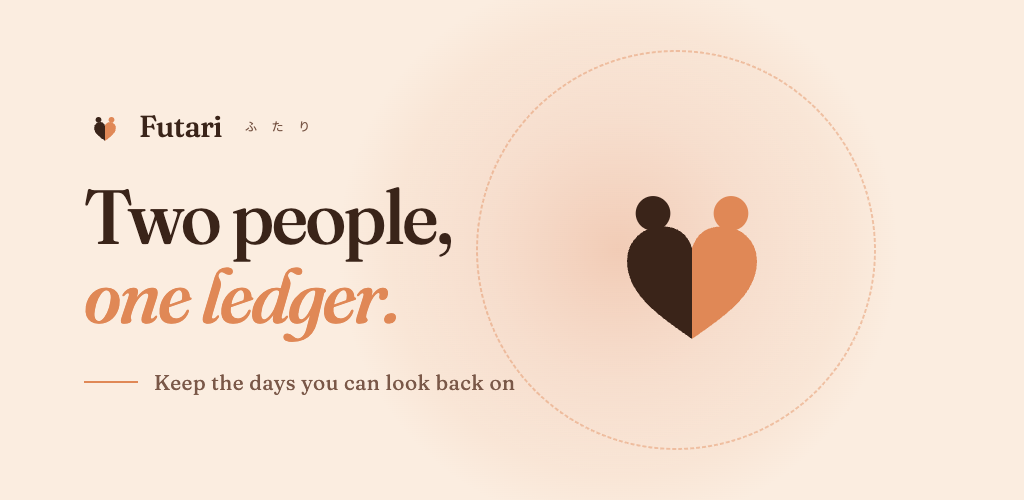
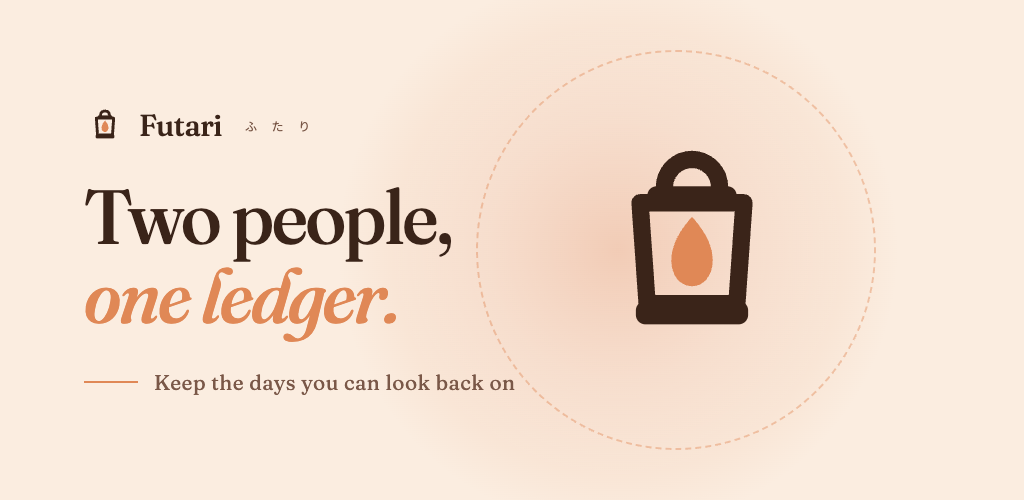
feat(brand): 全站標誌統一成提燈，五份重複的 path 收成一個來源
## 為什麼

盤過所有圖像資產後，發現三種意象並存：

- **提燈** — 7 個 app / store 資產（AppIcon、play-icon、Android launcher、
  PWA icon ×4、splash、splash_icon），自 2026-06-08 `b9b3da0` 起
- **檯燈** — `illustration-hero.png` 一張
- **完全沒有燈的扁平雙色心** — 手寫 path 重複 5 份 ＋ 生成圖 9 張

也就是說同一個產品，從 App Store 裝跟從瀏覽器看到的是兩個不相干的 logo。

## 改了什麼

`components/FutariMark.tsx` 是新的唯一來源。`public/favicon.svg`、
`app/favicon.ico`、兩個 `scripts/og/*.html` 模板、以及所有 `<FutariMark>`
呼叫點全部從它出。原本各自持有 path 的兩份 `FutariMark.tsx` 改成 re-export
——**它們已經各自漂移了**（內容 hash 不同）。landing 那份仍擁有 6 個 inline
feature glyph，那些與標誌無關，未動。

og / store 的 9 張圖以 `scripts/og/render.mjs` 與 `render-store.mjs` 重生，
不是手工改。

## 設計決定

**為什麼是描邊不是實心。** 同一個元件要從 16px（favicon）渲染到 420px
（migrate / use-case 的頁面大標誌），**26 倍跨度**。試過四個方向：實心雙色
在 240px 讀成購物袋；提燈＋兩個人最有感情但 16px 完全化掉；實心提燈跨尺寸
最穩但在 240px 沉重，不像它所出自的柔和插畫母檔。描邊保住了大尺寸的輕盈。

代價是真的：**16px 比實心版軟**。`app/favicon.ico` 的 16px 那一格改用
描邊 2.6 而非正稿的 2.2 來補償——同一個圖、不同視覺權重，ICO 的逐尺寸
entry 本來就是為這件事存在的。

**沒有動 `illustration-hero.png`。** 它是場景不是標誌，而且那盞落地燈是
`brand-register-design.md:52` 記載的刻意選擇，不是漂移。

**沒有新增任何 token**，顏色沿用 `--ink` / `--accent` / `#FBEDE0`。

## 失效的樣子

沒有任何東西會報錯——那個圖形是十一個數字加一條 path，很容易被複製回去，
然後安靜地再漂移一次，這正是先前兩份元件發生的事。控制點是「只有一個檔案
要改」，沒有任何測試分得出刻意重畫與不小心改壞。

⚠ 未在真實瀏覽器分頁、實機主畫面或社群分享預覽上看過，只做了逐尺寸的
像素級比對與 og 圖的前後對照。

Changed region(s): [[0.5938, 0.3, 0.75, 0.69], [0.0938, 0.21, 0.2188, 0.3]]

diff --git a/components/FutariMark.tsx b/components/FutariMark.tsx
@@ -1,0 +1,56 @@
+/**
+ * Futari brand mark — the lantern (提燈).
+ *
+ * Canonical source. Before 2026-09-16 this shape lived as a hand-copied SVG
+ * path in five places (`public/favicon.svg`, two `FutariMark.tsx`, and the two
+ * `scripts/og/*.html` templates); the two components had already drifted apart.
+ * Everything now renders from here, and the two `.svg` / `.html` copies are
+ * generated rather than typed — see the brand-mark section of DESIGN.md.
+ *
+ * **Why a lantern and not the old two-tone heart.** The store / app icons have
+ * been the lantern since 2026-06-08 (`b9b3da0`), but the web mark stayed on the
+ * flat heart, so the same product showed two unrelated logos depending on where
+ * you met it. Unified to the lantern 2026-09-16.
+ *
+ * **Why an outline and not a solid.** This one component renders from 16px
+ * (favicon) to 420px (the migrate / use-case page mark) — a 26× range. A solid
+ * silhouette survives 16px better but reads heavy at 420px, nothing like the
+ * soft illustrated master. The outline keeps the large sizes light; the cost is
+ * that 16px is softer than a solid would be. `app/favicon.ico` compensates by
+ * rendering its 16px entry at a heavier stroke — same drawing, optical weight
+ * correction, which is what per-size ICO entries are for.
+ *
+ * Failure mode to watch: nothing errors if someone re-introduces a local copy
+ * of the path. It just quietly drifts again, exactly as the two components did.
+ */
+interface Props {
+  size?: number
+  className?: string
+  /** Optional override; defaults to var(--ink). */
+  inkColor?: string
+  /** Optional override; defaults to var(--accent). */
+  accentColor?: string
+}
+
+export function FutariMark({ size = 32, className, inkColor, accentColor }: Props) {
+  const ink = inkColor ?? 'var(--ink)'
+  const accent = accentColor ?? 'var(--accent)'
+  return (
+    <svg
+      width={size}
+      height={size}
+      viewBox="0 0 32 32"
+      fill="none"
+      className={className}
+      aria-hidden="true"
+    >
+      <g transform="translate(16 16.4)">
+        <path d="M -3.5 -8.4 A 3.5 3.5 0 0 1 3.5 -8.4" fill="none" stroke={ink} strokeWidth="2.2" strokeLinecap="round" />
+        <rect x="-5.676" y="-8.5" width="11.352" height="2.75" rx="1.21" fill={ink} />
+        <path d="M -6.6 -6.4 L 6.6 -6.4 L 5.7 6.4 L -5.7 6.4 Z" fill="none" stroke={ink} strokeWidth="2.2" strokeLinejoin="round" />
+        <rect x="-7.128" y="6.07" width="14.256" height="2.97" rx="1.21" fill={ink} />
+        <path d="M 0 -4.62 C 1.995 -2.415, 2.625 -0.63, 2.625 0.945 C 2.625 2.94, 1.418 4.2, 0 4.2 C -1.418 4.2, -2.625 2.94, -2.625 0.945 C -2.625 -0.63, -1.995 -2.415, 0 -4.62 Z" fill={accent} />
+      </g>
+    </svg>
+  )
+}

diff --git a/app/[locale]/_landing/FutariMark.tsx b/app/[locale]/_landing/FutariMark.tsx
@@ -1,46 +1,7 @@
-// Brand mark — lifted exactly from /public/favicon.svg. Two stylised figures
-// (head + leaf body) facing each other: one ink, one accent. The "two" of
-// Futari, drawn once.
-
-type Props = {
-  size?: number
-  className?: string
-  /** Optional override; defaults to var(--ink). */
-  inkColor?: string
-  /** Optional override; defaults to var(--accent). */
-  accentColor?: string
-}
-
-export function FutariMark({
-  size = 32,
-  className,
-  inkColor = 'var(--ink)',
-  accentColor = 'var(--accent)',
-}: Props) {
-  return (
-    <svg
-      width={size}
-      height={size}
-      viewBox="0 0 32 32"
-      shapeRendering="crispEdges"
-      className={className}
-      aria-hidden="true"
-    >
-      <g transform="translate(16 18.5) scale(0.55)">
-        <path
-          d="M 0 16 C -7 11, -15 6, -15 -2 C -15 -7, -11 -10, -7 -10 C -3 -10, -1 -8, 0 -5 Z"
-          fill={inkColor}
-        />
-        <circle cx="-9" cy="-13" r="4" fill={inkColor} />
-        <path
-          d="M 0 16 C 7 11, 15 6, 15 -2 C 15 -7, 11 -10, 7 -10 C 3 -10, 1 -8, 0 -5 Z"
-          fill={accentColor}
-        />
-        <circle cx="9" cy="-13" r="4" fill={accentColor} />
-      </g>
-    </svg>
-  )
-}
+// The brand mark itself now lives in `components/FutariMark.tsx` — one copy for
+// the whole app. This file keeps the landing's inline feature glyphs and
+// re-exports the mark so existing imports from here keep working.
+export { FutariMark } from '@/components/FutariMark'
 
 // Inline feature glyphs — intentionally simple, all stroke-based so they
 // inherit chip color. Use `currentColor`.

diff --git a/scripts/og/store-graphic.html b/scripts/og/store-graphic.html
@@ -134,12 +134,13 @@
     // Same two-figure mark as the OG template (scripts/og/template.html) —
     // one cocoa figure, one ember figure, leaning into a shared heart.
     function markSvg(size) {
-      return `<svg width="${size}" height="${size}" viewBox="0 0 32 32" aria-hidden="true">
-        <g transform="translate(16 18.5) scale(0.55)">
-          <path d="M 0 16 C -7 11, -15 6, -15 -2 C -15 -7, -11 -10, -7 -10 C -3 -10, -1 -8, 0 -5 Z" fill="#3A2419"/>
-          <circle cx="-9" cy="-13" r="4" fill="#3A2419"/>
-          <path d="M 0 16 C 7 11, 15 6, 15 -2 C 15 -7, 11 -10, 7 -10 C 3 -10, 1 -8, 0 -5 Z" fill="#E08856"/>
-          <circle cx="9" cy="-13" r="4" fill="#E08856"/>
+      return `<svg width="${size}" height="${size}" viewBox="0 0 32 32" fill="none" aria-hidden="true">
+        <g transform="translate(16 16.4)">
+          <path d="M -3.5 -8.4 A 3.5 3.5 0 0 1 3.5 -8.4" fill="none" stroke="#3A2419" stroke-width="2.2" stroke-linecap="round"/>
+          <rect x="-5.676" y="-8.5" width="11.352" height="2.75" rx="1.21" fill="#3A2419"/>
+          <path d="M -6.6 -6.4 L 6.6 -6.4 L 5.7 6.4 L -5.7 6.4 Z" fill="none" stroke="#3A2419" stroke-width="2.2" stroke-linejoin="round"/>
+          <rect x="-7.128" y="6.07" width="14.256" height="2.97" rx="1.21" fill="#3A2419"/>
+          <path d="M 0 -4.62 C 1.995 -2.415, 2.625 -0.63, 2.625 0.945 C 2.625 2.94, 1.418 4.2, 0 4.2 C -1.418 4.2, -2.625 2.94, -2.625 0.945 C -2.625 -0.63, -1.995 -2.415, 0 -4.62 Z" fill="#E08856"/>
         </g>
       </svg>`;
     }

diff --git a/scripts/og/template.html b/scripts/og/template.html
@@ -155,12 +155,13 @@
 <body>
   <script>
     function markSvg(size) {
-      return `<svg width="${size}" height="${size}" viewBox="0 0 32 32" shape-rendering="crispEdges" aria-hidden="true">
-        <g transform="translate(16 18.5) scale(0.55)">
-          <path d="M 0 16 C -7 11, -15 6, -15 -2 C -15 -7, -11 -10, -7 -10 C -3 -10, -1 -8, 0 -5 Z" fill="#3A2419"/>
-          <circle cx="-9" cy="-13" r="4" fill="#3A2419"/>
-          <path d="M 0 16 C 7 11, 15 6, 15 -2 C 15 -7, 11 -10, 7 -10 C 3 -10, 1 -8, 0 -5 Z" fill="#E08856"/>
-          <circle cx="9" cy="-13" r="4" fill="#E08856"/>
+      return `<svg width="${size}" height="${size}" viewBox="0 0 32 32" fill="none" aria-hidden="true">
+        <g transform="translate(16 16.4)">
+          <path d="M -3.5 -8.4 A 3.5 3.5 0 0 1 3.5 -8.4" fill="none" stroke="#3A2419" stroke-width="2.2" stroke-linecap="round"/>
+          <rect x="-5.676" y="-8.5" width="11.352" height="2.75" rx="1.21" fill="#3A2419"/>
+          <path d="M -6.6 -6.4 L 6.6 -6.4 L 5.7 6.4 L -5.7 6.4 Z" fill="none" stroke="#3A2419" stroke-width="2.2" stroke-linejoin="round"/>
+          <rect x="-7.128" y="6.07" width="14.256" height="2.97" rx="1.21" fill="#3A2419"/>
+          <path d="M 0 -4.62 C 1.995 -2.415, 2.625 -0.63, 2.625 0.945 C 2.625 2.94, 1.418 4.2, 0 4.2 C -1.418 4.2, -2.625 2.94, -2.625 0.945 C -2.625 -0.63, -1.995 -2.415, 0 -4.62 Z" fill="#E08856"/>
         </g>
       </svg>`;
     }

diff --git a/app/(dashboard)/_components/FutariMark.tsx b/app/(dashboard)/_components/FutariMark.tsx
@@ -1,16 +1,3 @@
-interface Props { size?: number }
-
-// 雙葉印章 — 2026-05-04 設計師交付（chat 2 brand handoff）
-// 來源：public/favicon.svg；inline 化用 var(--ink) / var(--accent) 取代 hardcoded 色，方便未來換主題
-export function FutariMark({ size = 44 }: Props) {
-  return (
-    <svg width={size} height={size} viewBox="0 0 32 32" fill="none" aria-hidden="true">
-      <g transform="translate(16 18.5) scale(0.55)">
-        <path d="M 0 16 C -7 11, -15 6, -15 -2 C -15 -7, -11 -10, -7 -10 C -3 -10, -1 -8, 0 -5 Z" fill="var(--ink)" />
-        <circle cx="-9" cy="-13" r="4" fill="var(--ink)" />
-        <path d="M 0 16 C 7 11, 15 6, 15 -2 C 15 -7, 11 -10, 7 -10 C 3 -10, 1 -8, 0 -5 Z" fill="var(--accent)" />
-        <circle cx="9" cy="-13" r="4" fill="var(--accent)" />
-      </g>
-    </svg>
-  )
-}
+// Re-export of the canonical brand mark. This file used to carry its own copy
+// of the path and had already drifted from the landing copy (#1249 sweep).
+export { FutariMark } from '@/components/FutariMark'

diff --git a/DESIGN.md b/DESIGN.md
@@ -391,6 +391,18 @@ This is 陪伴 made literal: the other person is not here, but they just moved. 
 - **Never for the user's own writes.** The user already knows what they did; flashing it back is a machine congratulating them.
 - **Never a count.** No "3 new records" badge, no unread state, no tally. It is a presence signal, not an inbox.
 
+### The Brand Mark
+
+The mark is a lantern (提燈), drawn once in `components/FutariMark.tsx`. Everything renders from there: `public/favicon.svg`, `app/favicon.ico`, the two `scripts/og/*.html` templates, and every `<FutariMark>` callsite. The two `FutariMark.tsx` files that used to hold their own copies (`app/[locale]/_landing/`, `app/(dashboard)/_components/`) are now re-exports; the landing one still owns the six inline feature glyphs, which are unrelated.
+
+**Why a lantern.** The store and app icons have been the lantern since 2026-06-08 (`b9b3da0`), but the web mark stayed on the earlier flat two-tone heart, so the same product showed two unrelated logos depending on where you met it — App Store versus browser tab. Unified 2026-09-16.
+
+**Why an outline, not a solid.** One component renders from 16px (favicon) to 420px (the migrate / use-case page mark) — a 26× range. A solid silhouette holds up better at 16px but reads heavy at 420px, nothing like the soft illustrated master the store icon comes from. The outline keeps the large end light. The cost is real: at 16px it is softer than a solid would be, and `app/favicon.ico` compensates by rendering its 16px entry at stroke 2.6 instead of 2.2 — the same drawing at a heavier optical weight, which is what per-size ICO entries exist for.
+
+**What is *not* the mark.** `public/illustration-hero.png` is a scene, not a logo: two people on a sofa under a warm floor lamp. Its lamp is a different object from the mark's lantern and that is fine — it is a deliberate brand-register choice ([brand-register-design.md](docs/superpowers/specs/brand-register-design.md)), not drift. Do not "unify" it into a lantern without revisiting that spec.
+
+**Failure mode.** Nothing errors if someone re-introduces a local copy of the path — the drawing is eleven numbers and a path string, easy to paste. It just drifts silently, which is exactly what happened to the two components before this. The control is that there is one file to change; there is no test that can tell a deliberate redraw from an accidental one.
+
 ## 6. Do's and Don'ts
 
 Each Don't carries a one-sentence audit test. Run the test on the screen; if it fails, the Don't applies.
